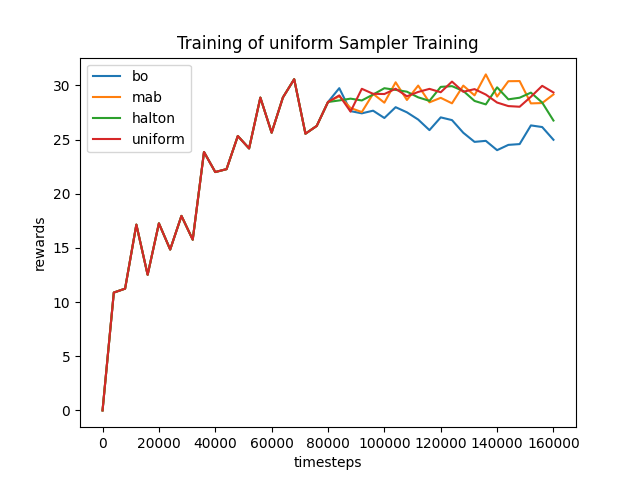
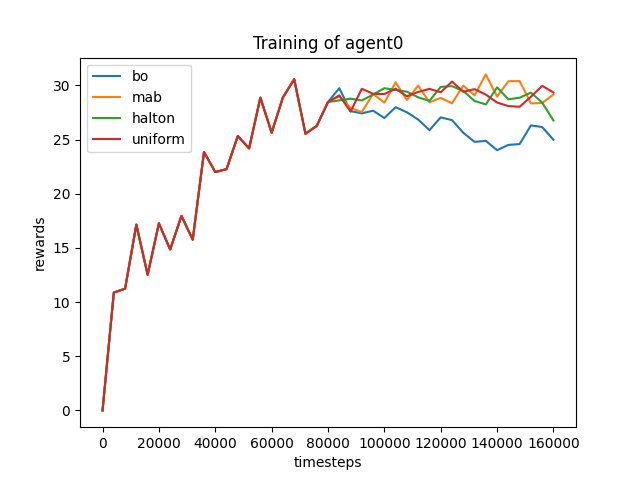
checkpoint

Changed region(s): [[0.2812, 0.0625, 0.75, 0.125]]

diff --git a/src/scenic/simulators/metadrive/examine_performance.py b/src/scenic/simulators/metadrive/examine_performance.py
@@ -1,0 +1,81 @@
+"""
+Graphs training curves individually for each agent and each sampler
+"""
+
+
+import dill
+import os
+import argparse
+import matplotlib.pyplot as plt
+import numpy as np
+
+def load_dill(file_name):
+
+    with open(file_name, "rb") as f:
+        res = dill.load(f)
+    return res
+
+
+res_dir = "ray_models/eval_results/uniform"
+
+samplers = ["bo", "mab", "halton", "uniform"]
+seeds = [i for i in range(5)]
+
+res_dict = dict()
+agent0 = 'agent0'
+agent1 = 'agent1'
+
+times = [i * 4000 for i in range(41)]
+
+
+res = load_dill(f"{res_dir}/pretrain.pkl")['mean']
+# res_std = load_dill(f"{res_dir}/pretrain.pkl")['std'] 
+a1 = [0.0]
+a2 = [0.0]
+d = dict(agent0=[], agent1=[])
+
+for r in res:
+    a1.append(r[agent0])
+    a2.append(r[agent1])
+
+d[agent0].append(a1)
+d[agent1].append(a2)
+
+res_dict['pretrain'] = d
+# breakpoint()
+# print(f"{d}")
+
+
+for s in samplers:
+    d = dict(agent0=[], agent1=[])
+    for i in seeds:
+        res = load_dill(f"{res_dir}/{s}_s{i}.pkl")['mean']
+        # print(f"RES: {res}")
+        a1 = []
+        a2 = []
+        for r in res:
+            a1.append(r[agent0])
+            a2.append(r[agent1])
+        d[agent0].append(a1)
+        d[agent1].append(a2)
+
+    res_dict[s] = d
+
+# print(f"{res_dict}")
+    # print(f"{d[agent0]}")
+# print(f"res dict {res_dict}")
+# print(len(res_dict["halton"][agent0]))
+for s in samplers:
+    for a in [agent0, agent1]:
+        print(f"Sampler {s}, agent {a}, final rew mean {np.mean(res_dict[s][a], axis=0)[-1]}")
+        print(f"Sampler {s}, agent {a}, final rew std {np.std(res_dict[s][a], axis=0)[-1]}")
+        # plt.figure()
+        # plt.title(f"Training of {s} Sampler Training")
+        # plt.xlabel("timesteps")
+        # plt.ylabel("rewards")
+        # rewards = np.hstack((res_dict['pretrain'][a][0], np.mean(res_dict[s][a], axis=0)))
+        
+        # plt.plot(times, rewards)
+        # plt.savefig(f"{a}_{s}_train.png") 
+    
+
